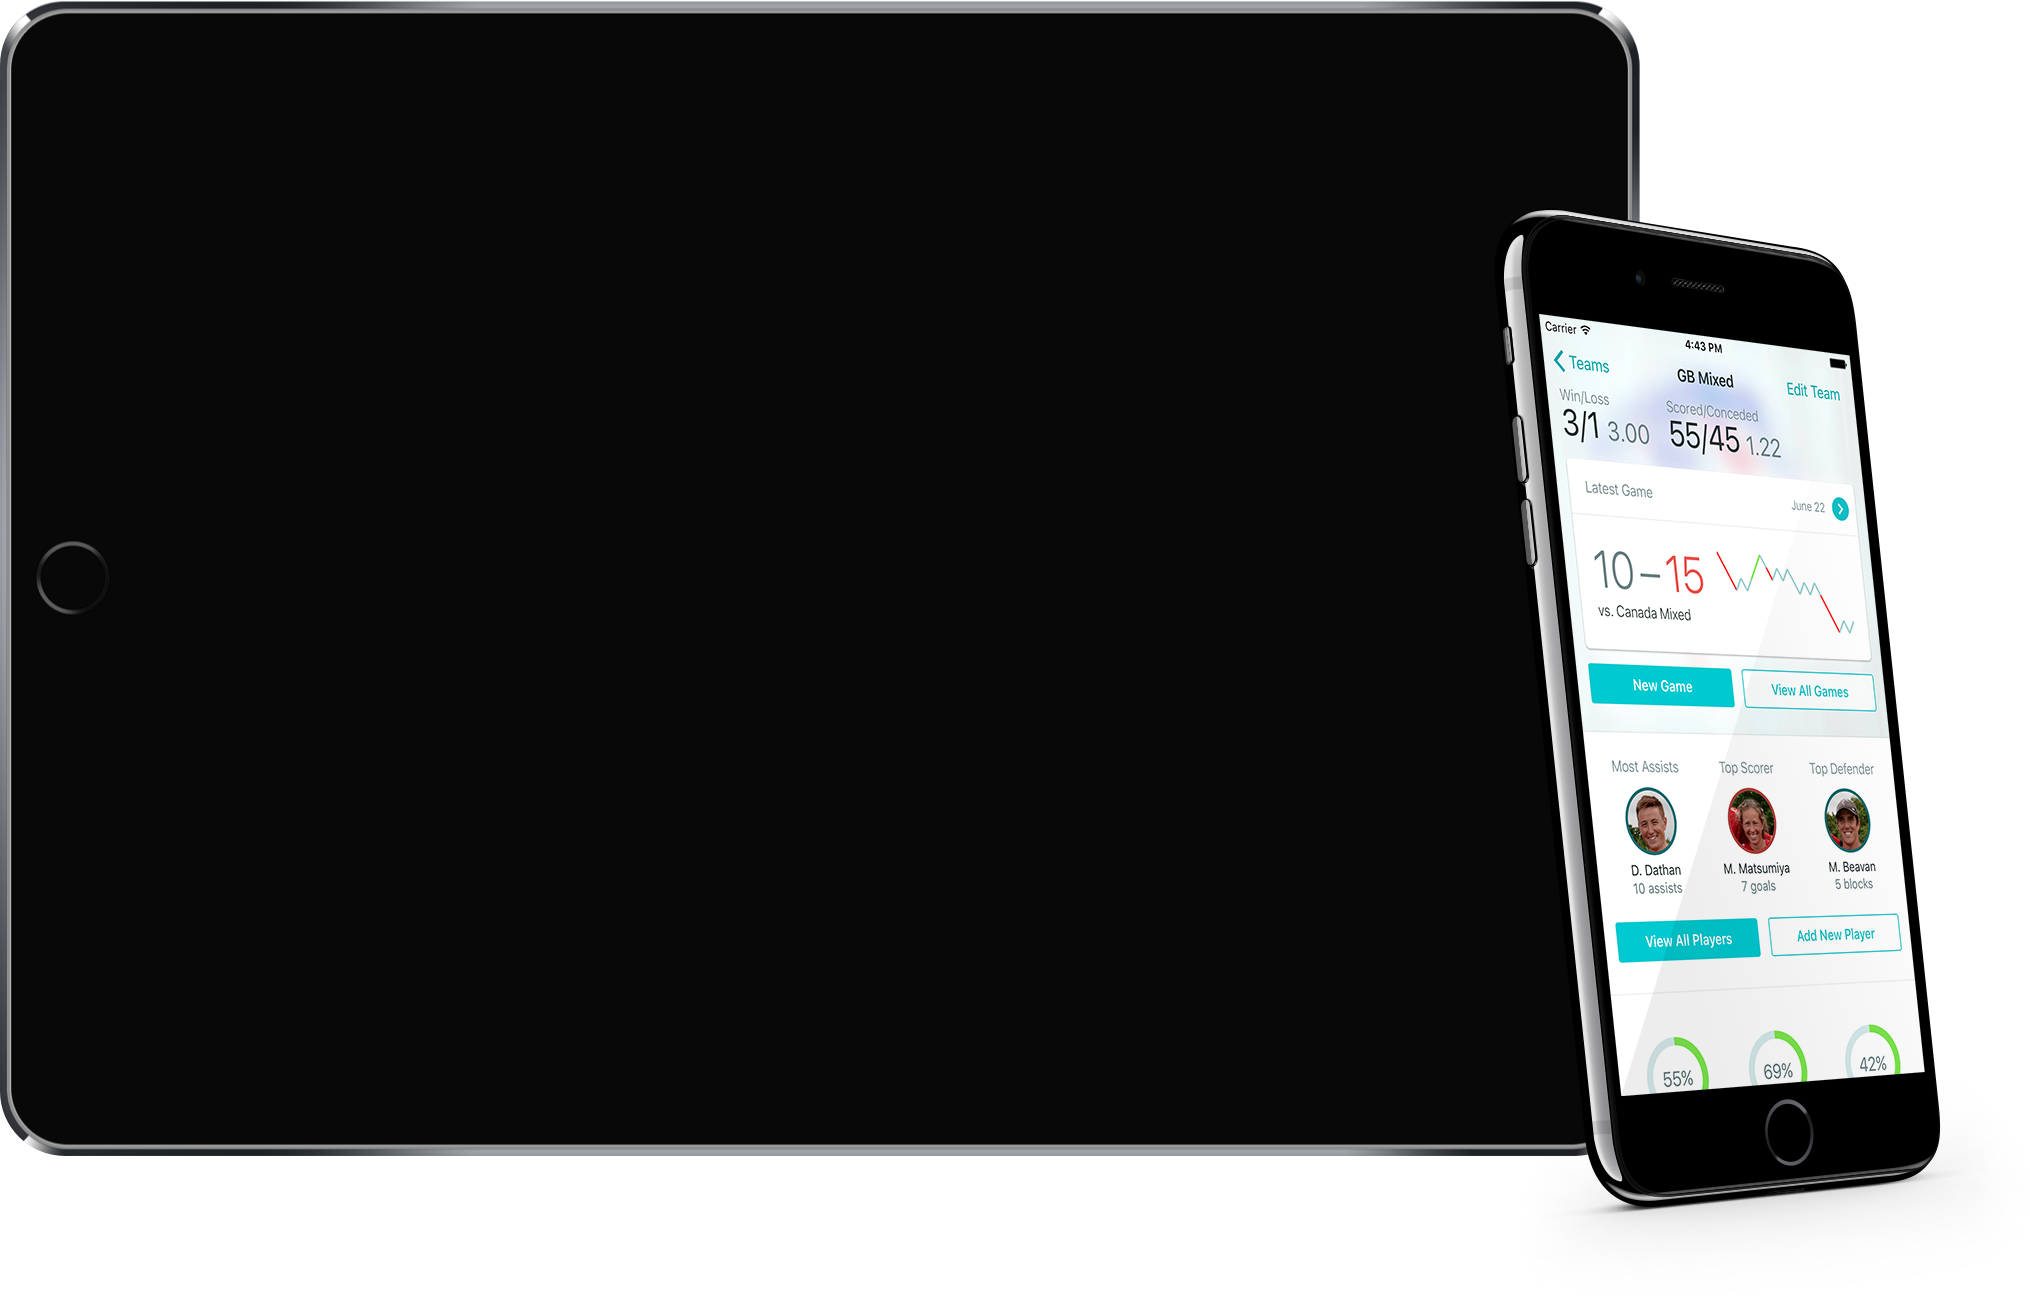
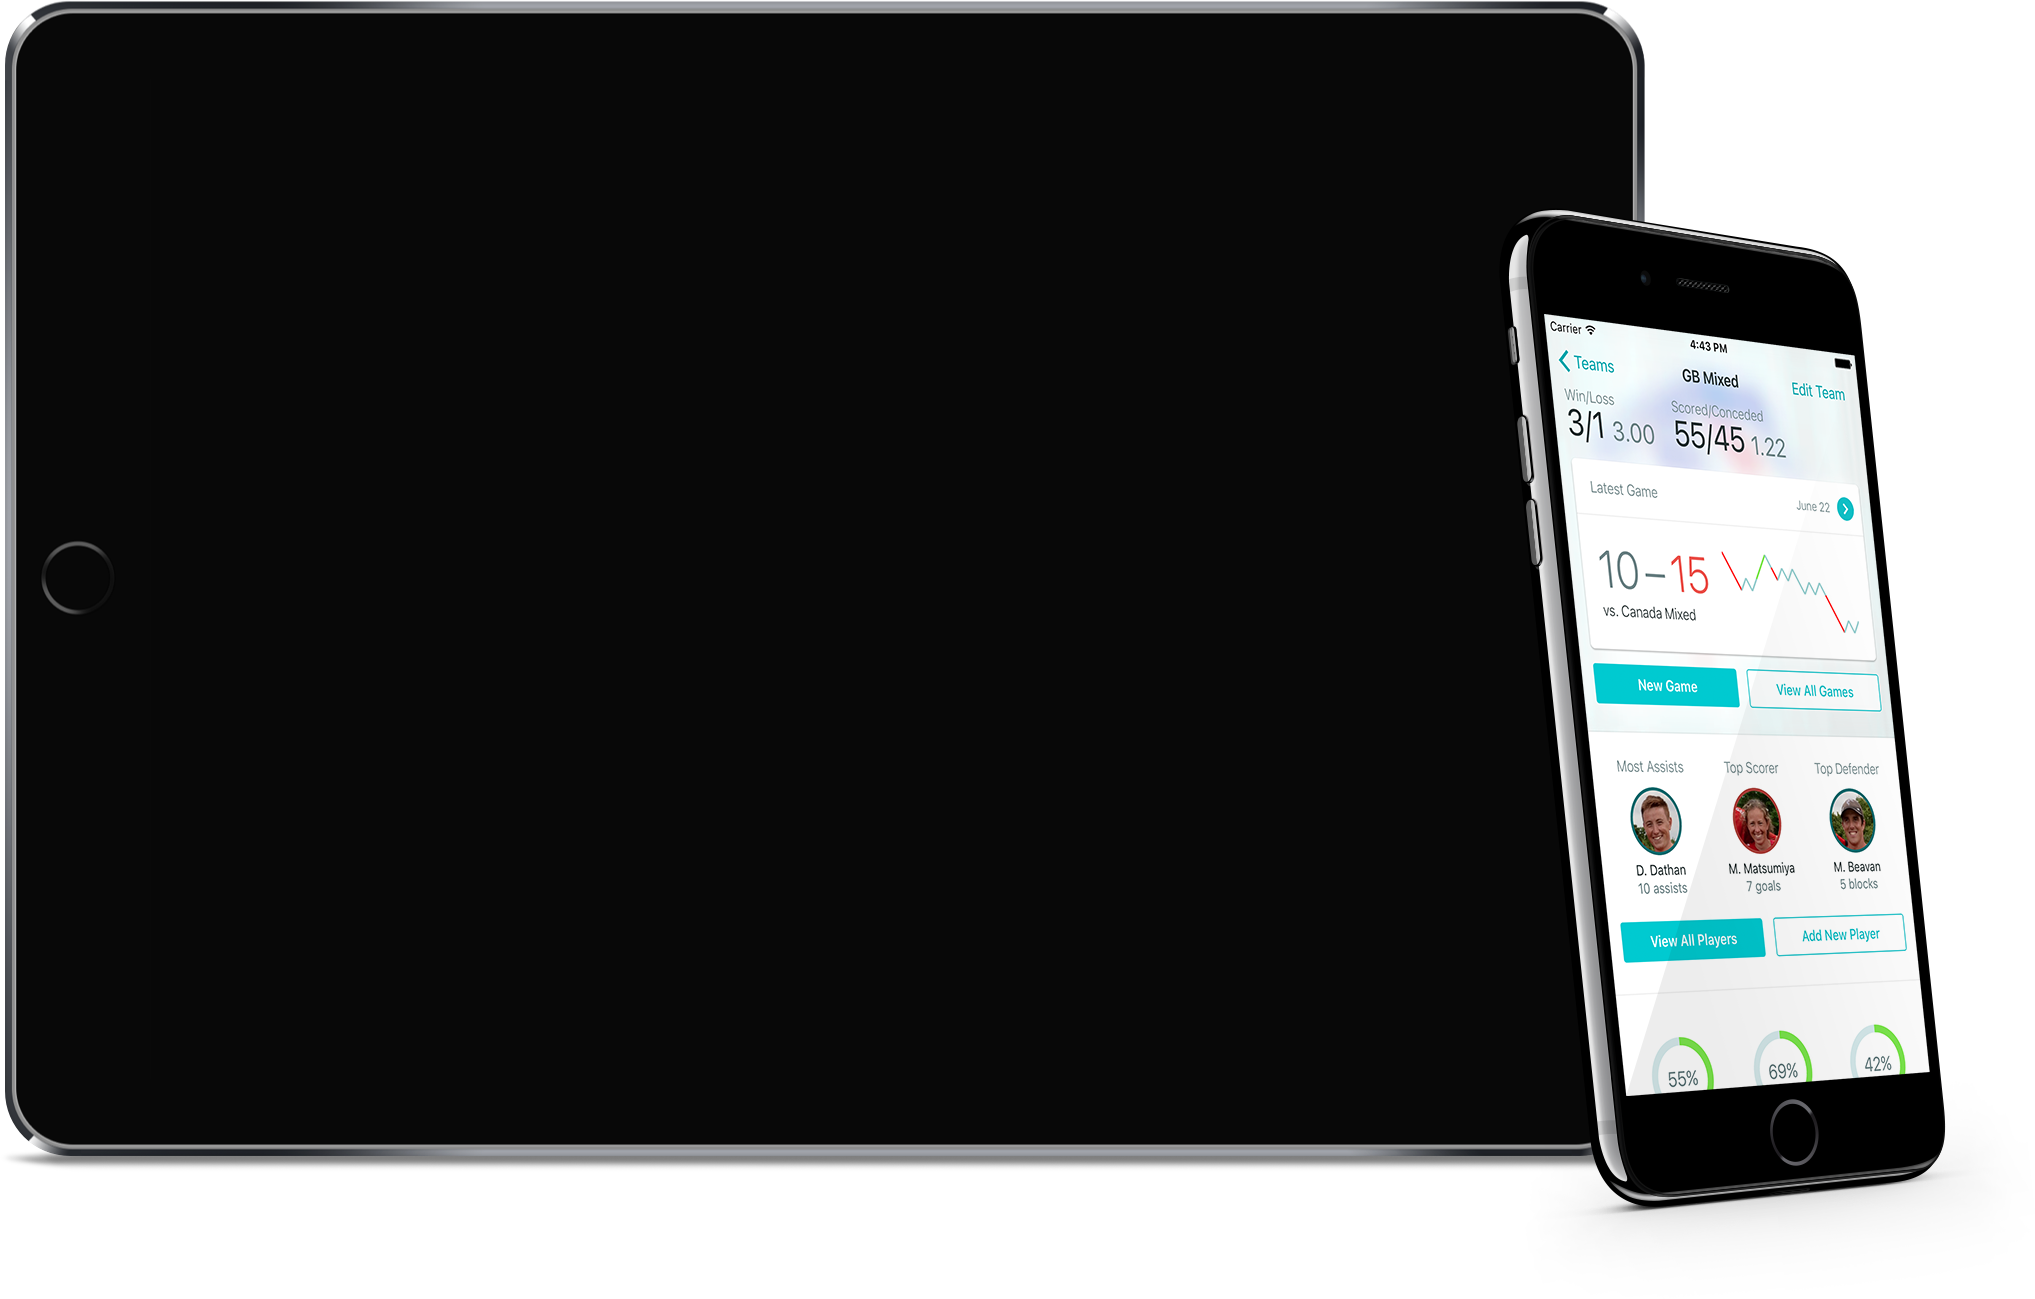
Include iPad shadow in image, shift down on iPhone

diff --git a/source/assets/stylesheets/application.css.scss b/source/assets/stylesheets/application.css.scss
@@ -79,24 +79,6 @@ section {
     left: 0;
     top: 0.4rem;
   }
-
-  @include media-breakpoint-down(sm) {
-    padding-left: 0;
-
-    blockquote {
-      font-size: 1.4rem;
-    }
-
-    figcaption {
-      position: relative;
-      padding-left: 75px;
-    }
-
-    .testimonial-avatar {
-      width: 60px;
-      height: 60px;
-    }
-  }
 }
 
 #pricing {
@@ -159,7 +141,7 @@ footer {
 .banner {
   background-color: $blue-dark;
   position: relative;
-  margin-bottom: 150px;
+  margin-bottom: 110px;
 
   .banner-title {
     display: inline-block;
@@ -174,7 +156,7 @@ footer {
     }
 
     .app-icon {
-      border-radius: 17.54%;
+      border-radius: 22%;
       position: absolute;
       left: 0;
       top: 0;
@@ -230,9 +212,9 @@ footer {
   height: 0;
   width: 105%;
   padding-top: 75%;
-  margin: -220px 0 0 -0.5%;
+  margin-top: -190px;
   position: relative;
-  top: 220px;
+  top: 190px;
 
   iframe {
     position: absolute;
@@ -240,18 +222,6 @@ footer {
     left: 7.4%;
     width: 66%;
     height: 69%;
-  }
-
-  &::after {
-    z-index: -1;
-    content: '';
-    display: block;
-    height: 0;
-    position: absolute;
-    bottom: 15%;
-    left: 0;
-    right: 10%;
-    box-shadow: 0 0 15px 2px rgba(0,0,0,1);
   }
 }
 
@@ -291,6 +261,35 @@ footer {
 
 .icon-facebook {
   @include retina-background-image('icons/facebook@1x.png', 'icons/facebook.png');
+}
+
+@include media-breakpoint-down(sm) {
+  .banner {
+    margin-bottom: 30px;
+  }
+
+  .ipad {
+    margin-top: -80px;
+    top: 80px;
+  }
+
+  .testimonial {
+    padding-left: 0;
+
+    blockquote {
+      font-size: 1.4rem;
+    }
+
+    figcaption {
+      position: relative;
+      padding-left: 75px;
+    }
+
+    .testimonial-avatar {
+      width: 60px;
+      height: 60px;
+    }
+  }
 }
 
 body.development {
